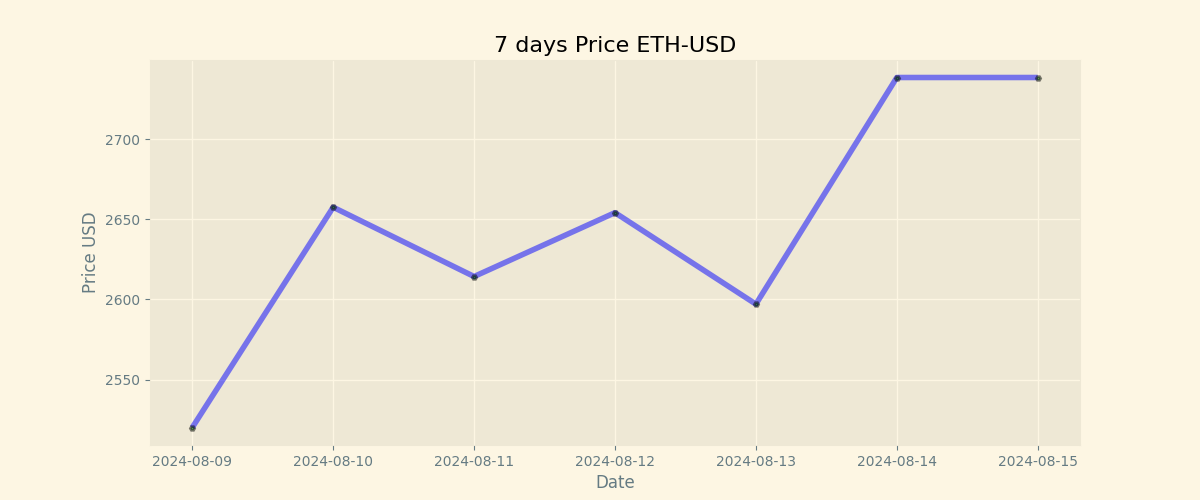
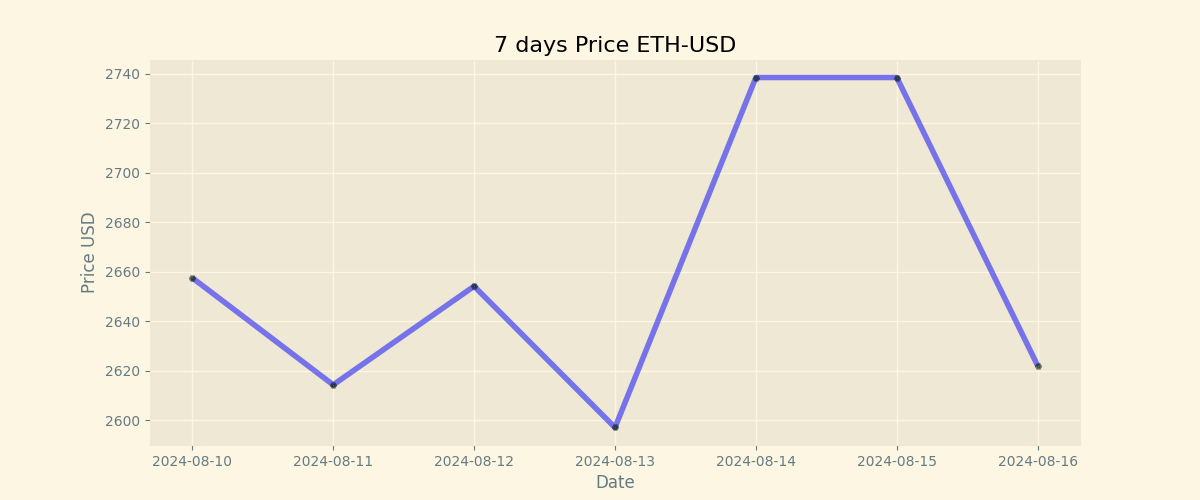
Duty Updates 2024-08-16

diff --git a/README.md b/README.md
@@ -9,8 +9,8 @@
 
 | Currency | Price           |
 | -------- | --------------- |
-| **BTC**  | **$ 61146.53** |
-| **ETH**  | **$ 2738.5** |
+| **BTC**  | **$ 58051.0** |
+| **ETH**  | **$ 2622.0** |
 
 ## BTC chart
 
